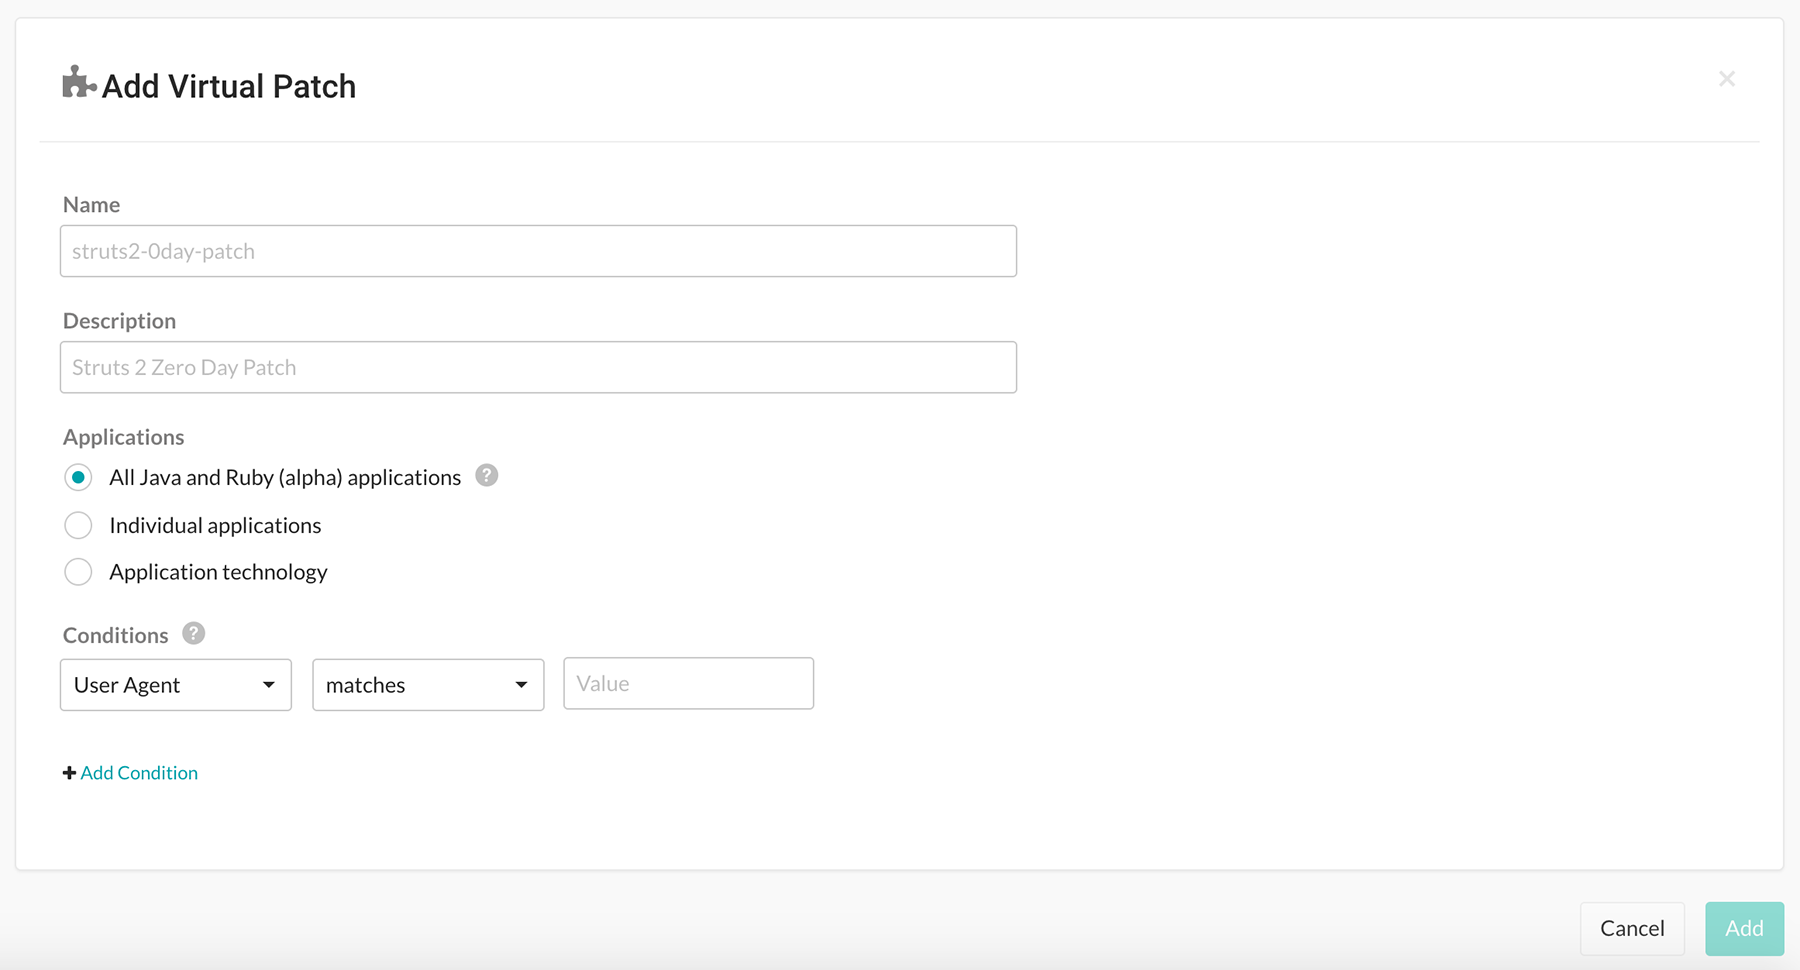
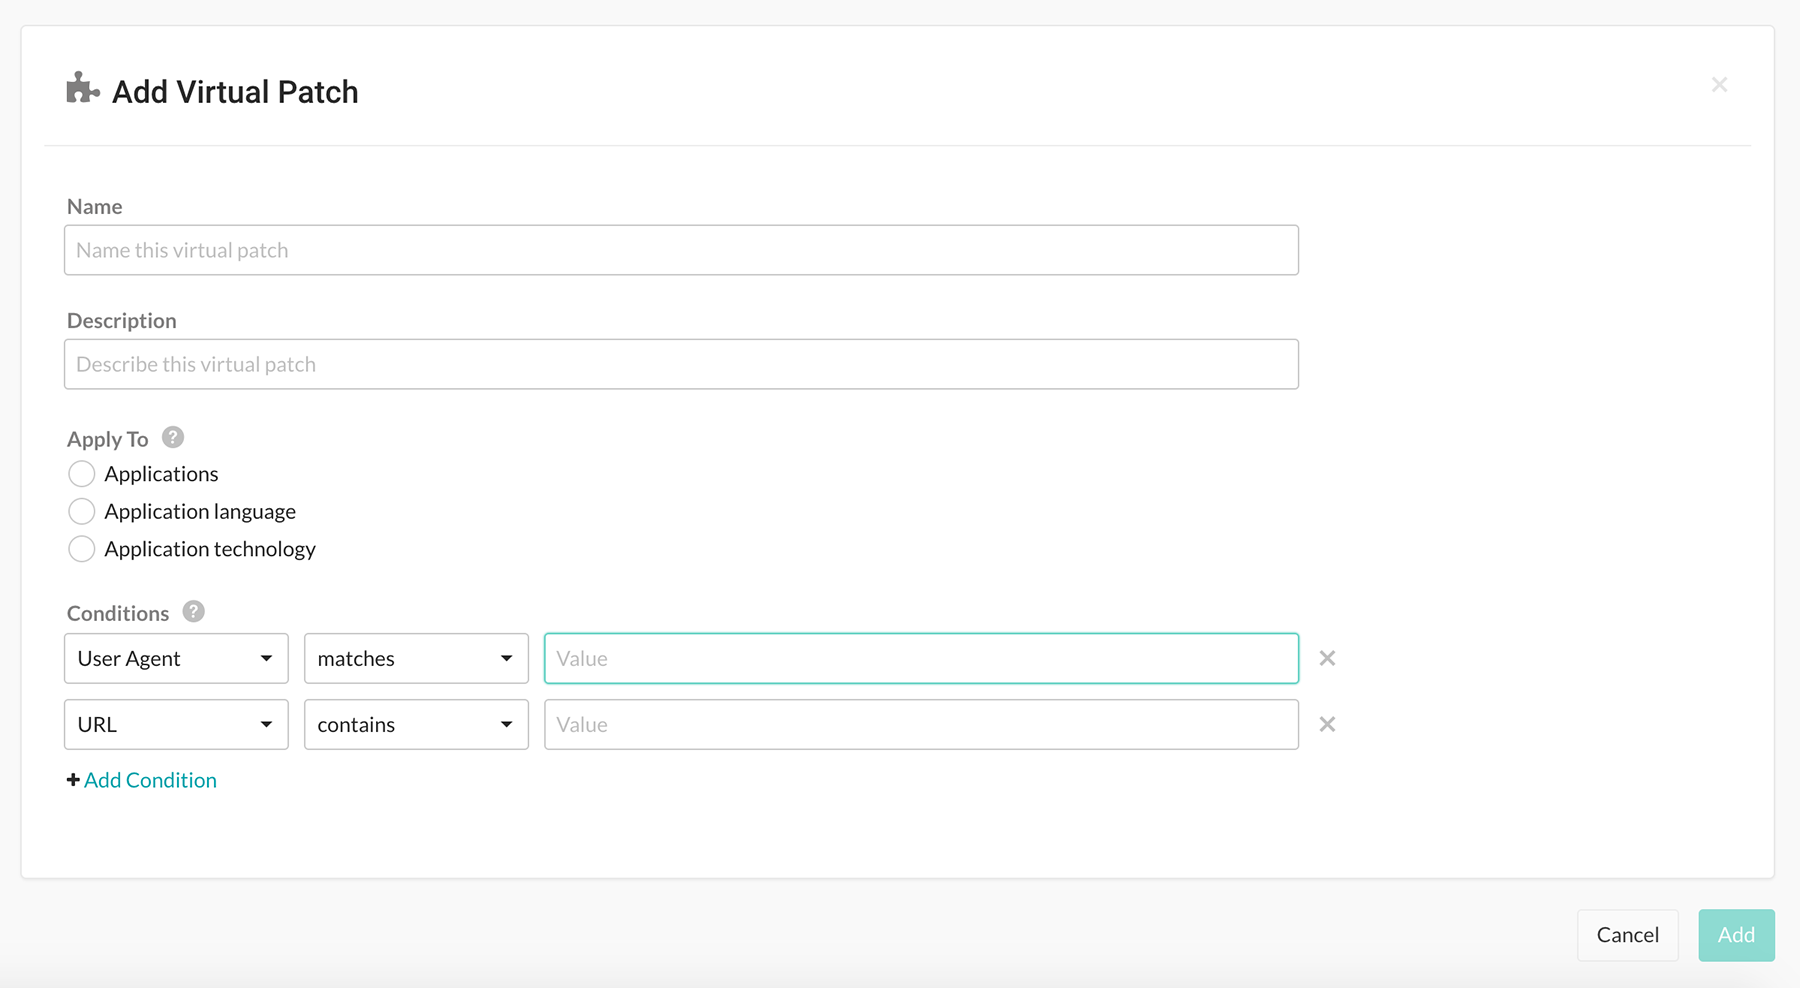
updated vp text and image

diff --git a/content/admin/policy_mgmt/VirtualPatches.md b/content/admin/policy_mgmt/VirtualPatches.md
@@ -4,7 +4,7 @@ description: "Overview of virtual patches"
 tags: "Admin virtual patches policy management protect"
 -->
 
-Virtual patches are custom defense rules that you can define to protect against specific vulnerabilities in your code. You can specify the criteria that each attack event needs to match as well as how the patch is applied. You can apply virtual patches to specific applications or all applications using a specific technology (e.g., Spring MVC). 
+Virtual patches are short-term, custom defense rules that protect against specific, newly discovered vulnerabilities in your code. You can specify the criteria that each attack event needs to match, to which application(s) the patch applies and in which environments the patch is enabled. 
 
 ## Manage Virtual Patches 
 
@@ -23,9 +23,7 @@ To add a virtual patch, click the button above the grid.
 
 * In the **Apply to** section, use the radio button to choose whether the rule applies to specific **Applications**, an **Application language** or an **Application technology**. After clicking the appropriate button, use the multiselect field that appears to further refine your choice. 
 
-* In the **Conditions** section, use the dropdown menus...
-
-* Select the link to **Add another condition** in a separate row, if necessary. 
+* Use the dropdown menus to define the **Conditions** under which the patch should apply to your application selection(s). Select the link to **Add another condition** in a separate row, if necessary. 
 
 ### Edit a virtual patch 
 
